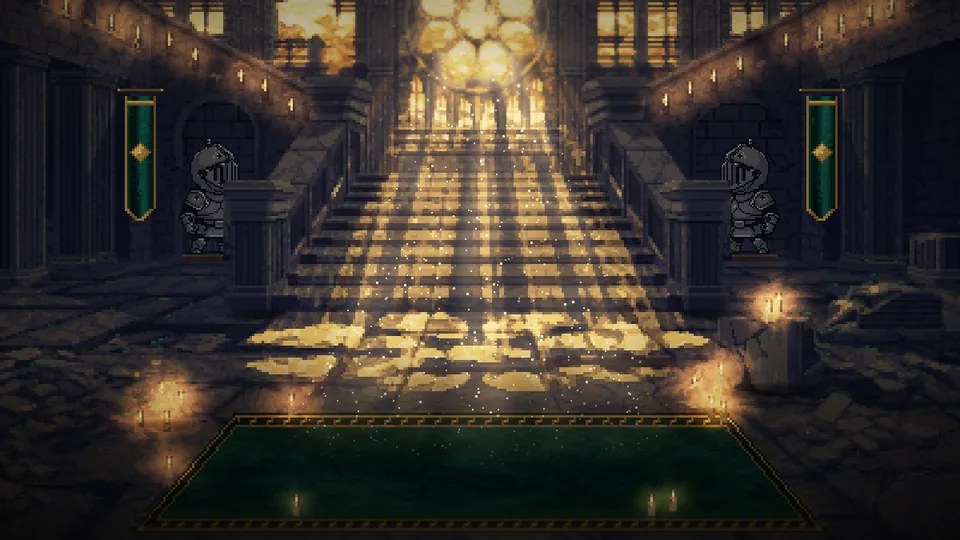
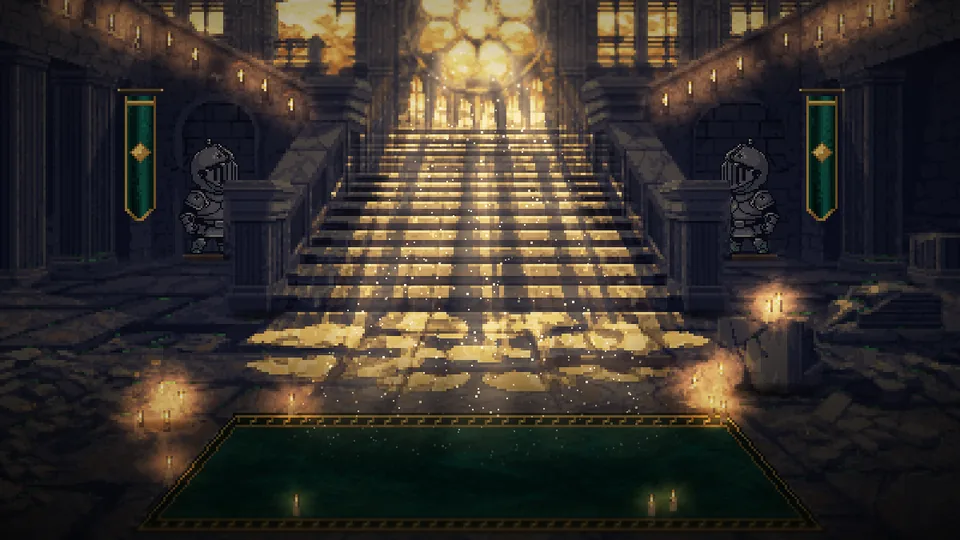
Salão dos Cem: Escadaria da Ascensão com a arte HD-2D (escadaria do Tales relida em luz dourada)
Claude-Session: https://claude.ai/code/session_01GbKgzzZKzHQDKNkw1eCv9w

diff --git a/src/estilos/paginas/SalaoCem.css b/src/estilos/paginas/SalaoCem.css
@@ -209,26 +209,21 @@
 .cem-escada__cabeca { display: grid; gap: 2px; }
 .cem-escada__cabeca h2, .cem-lista__cabeca h2, .cem-regras h2 { margin: 0; font-family: var(--fonte-marca); font-weight: 800; letter-spacing: -0.02em; font-size: clamp(1.375rem, 2.6vw, 1.75rem); color: var(--texto); }
 .cem-escada__sub { margin: 0; color: var(--texto-2); font-size: var(--corpo-menor); }
+.cem-escada__palco { position: relative; border-radius: 20px; overflow: hidden; background: #191a1f; min-height: 22rem; aspect-ratio: 1200 / 472; }
+/* A arte mostra a faixa de 8% a 78% da altura: o vitral, a escada e o tapete onde ficam os cartões. */
+.cem-escada__arte { position: absolute; inset: 0; width: 100%; height: 100%; object-fit: cover; object-position: 50% 12%; image-rendering: pixelated; }
 .cem-escada__degraus {
-  list-style: none; margin: 0; padding: var(--e-6) var(--e-5) 0; display: grid; grid-template-columns: repeat(3, minmax(0, 1fr)); gap: var(--e-4); align-items: end;
-  border-radius: 16px; position: relative; overflow: hidden;
-  background: linear-gradient(180deg, #efe7d6, #e4d8bf);
+  list-style: none; margin: 0; position: absolute; inset: auto 0 0; padding: 0 var(--e-5) var(--e-5);
+  display: grid; grid-template-columns: repeat(3, minmax(0, 1fr)); gap: var(--e-4); align-items: end;
 }
-/* Os degraus de pedra embaixo de cada cartão: cada um mais alto que o anterior (a escada sobe para a direita). */
+/* Cada patamar um pouco mais alto que o anterior: a escada sobe para a direita. */
 .cem-degrau {
-  --alto: 0px; position: relative; display: grid; gap: var(--e-2); min-width: 0; margin-bottom: calc(18px + var(--alto));
-  padding: var(--e-4); border-radius: 12px; background: #fffdf8; box-shadow: 0 1px 2px rgba(60, 44, 20, 0.12), 0 8px 18px rgba(60, 44, 20, 0.12);
+  --alto: 0px; position: relative; display: grid; gap: var(--e-2); min-width: 0; margin-bottom: var(--alto);
+  padding: var(--e-4); border-radius: 12px; background: rgba(255, 253, 248, 0.96);
+  box-shadow: 0 1px 2px rgba(0, 0, 0, 0.25), 0 12px 28px rgba(0, 0, 0, 0.35);
 }
-.cem-degrau::after {
-  content: ""; position: absolute; left: -10px; right: -10px; top: 100%; height: calc(18px + var(--alto) + var(--e-6)); margin-top: 8px;
-  background:
-    linear-gradient(180deg, #b7a586 0 4px, #9d8a6a 4px 6px, transparent 6px) top / 100% 100% no-repeat,
-    repeating-linear-gradient(90deg, transparent 0 46px, rgba(70, 52, 30, 0.22) 46px 48px),
-    linear-gradient(180deg, #cdbd9c, #b9a681);
-  border-radius: 3px 3px 0 0;
-}
-.cem-degrau--2 { --alto: 28px; }
-.cem-degrau--3 { --alto: 56px; }
+.cem-degrau--2 { --alto: 14px; }
+.cem-degrau--3 { --alto: 28px; }
 .cem-degrau--voce { box-shadow: inset 0 0 0 2px var(--verdete), 0 8px 18px rgba(60, 44, 20, 0.12); }
 .cem-degrau__salto { display: flex; align-items: baseline; gap: var(--e-2); }
 .cem-degrau__salto b { font-family: var(--fonte-pixel); font-weight: 400; font-size: 2.25rem; line-height: 0.9; color: var(--acerto-texto, #1f7a4d); }
@@ -352,9 +347,10 @@
   .cem-podio__total { grid-column: 3; grid-row: 1 / span 2; text-align: right; display: grid; }
   .cem-podio__total b, .cem-podio--1 .cem-podio__total b { font-size: 1.375rem; }
   .cem-podio__selos { grid-column: 2; min-height: 0; }
-  .cem-escada__degraus { grid-template-columns: minmax(0, 1fr); padding: var(--e-3); gap: var(--e-2); background: #efe7d6; }
+  .cem-escada__palco { aspect-ratio: auto; min-height: 0; display: grid; }
+  .cem-escada__arte { position: relative; height: 11rem; object-position: 50% 30%; }
+  .cem-escada__degraus { position: relative; grid-template-columns: minmax(0, 1fr); padding: var(--e-3); gap: var(--e-2); margin-top: -2.5rem; }
   .cem-degrau, .cem-degrau--2, .cem-degrau--3 { --alto: 0px; margin: 0; }
-  .cem-degrau::after { display: none; }
   .cem-degrau { grid-template-columns: auto minmax(0, 1fr); align-items: center; column-gap: var(--e-3); padding: var(--e-3); }
   .cem-degrau__salto { display: grid; justify-items: center; gap: 0; min-width: 3.25rem; }
   .cem-degrau__salto b { font-size: 1.9rem; }
@@ -387,10 +383,8 @@
 /* ---------- Escuro ---------- */
 :root[data-tema="escuro"] .cem { --cem-veu-eu: rgba(79, 179, 165, 0.16); }
 :root[data-tema="escuro"] .cem-jornada { background-color: #0a2e28; box-shadow: inset 0 0 0 1px rgba(228, 184, 92, 0.2); }
-:root[data-tema="escuro"] .cem-escada__degraus { background: linear-gradient(180deg, #2a2620, #221e19); }
-:root[data-tema="escuro"] .cem-degrau { background: #1c2124; box-shadow: inset 0 0 0 1px #2f383b; }
+:root[data-tema="escuro"] .cem-degrau { background: rgba(28, 33, 36, 0.95); box-shadow: inset 0 0 0 1px #2f383b, 0 12px 28px rgba(0, 0, 0, 0.4); }
 :root[data-tema="escuro"] .cem-degrau__nome, :root[data-tema="escuro"] .cem-degrau__rota b { color: #f1f3f2; }
 :root[data-tema="escuro"] .cem-degrau__rota { color: #a9b6b9; }
-:root[data-tema="escuro"] .cem-degrau::after { filter: brightness(0.45) saturate(0.7); }
 :root[data-tema="escuro"] .cem-mov--fogo { background: #3a2a14; color: #ffc46b; }
 :root[data-tema="escuro"] .cem-linha--voce { box-shadow: inset 4px 0 0 var(--cem-ouro); }

diff --git a/src/componentes/cem/Escadaria.tsx b/src/componentes/cem/Escadaria.tsx
@@ -1,3 +1,4 @@
+import { recurso } from '../../config'
 import { iniciais, type Ascensao } from './regras'
 import { Chama } from './Movimento'
 
@@ -14,6 +15,10 @@ export function Escadaria({ subidas }: { subidas: Ascensao[] }) {
       <h2 id="cem-escada-t">Quem mais subiu</h2>
       <p className="cem-escada__sub">Posições ganhas desde o último dia registrado ou na semana.</p>
     </header>
+    <div className="cem-escada__palco">
+    {/* A escadaria do castelo (desenho do Tales no PixelLab, com a luz HD-2D de scripts/cenarios/escadaria_cem.py). */}
+    <img className="cem-escada__arte" src={recurso('ranking/cem/escadaria-960.webp')} srcSet={`${recurso('ranking/cem/escadaria-960.webp')} 960w, ${recurso('ranking/cem/escadaria.webp')} 1200w`}
+      sizes="min(72rem, 100vw)" alt="" width={1200} height={675} loading="lazy" decoding="async" draggable={false} aria-hidden="true" />
     <ol className="cem-escada__degraus">
       {subidas.map((s, i) => <li key={s.linha.posicao} className={`cem-degrau cem-degrau--${i + 1}${s.linha.eh_voce ? ' cem-degrau--voce' : ''}`}>
         <span className="cem-degrau__salto">
@@ -30,5 +35,6 @@ export function Escadaria({ subidas }: { subidas: Ascensao[] }) {
         {s.fogo && <span className="cem-degrau__fogo" title="Em chamas"><Chama tamanho={24} /><span className="so-leitor">Em chamas</span></span>}
       </li>)}
     </ol>
+    </div>
   </section>
 }

diff --git a/scripts/cenarios/escadaria_cem.py b/scripts/cenarios/escadaria_cem.py
@@ -161,6 +161,16 @@ def quantizar(s: np.ndarray, d: dict) -> np.ndarray:
     faixa = np.digitize(luz, [0.05, 0.13, 0.24])
     # faixas de luz sem pontinhos soltos: filtro de moda 3 x 3 (a textura fica no tom, não na luz)
     faixa = np.asarray(Image.fromarray(faixa.astype(np.uint8)).filter(ImageFilter.ModeFilter(3))).astype(int)
+    # degraus legíveis: a janela fica atrás e acima, então o piso de cada degrau recebe a luz e o espelho (a face
+    # virada para nós) fica na sombra; a quina de cada piso ganha um filete claro
+    escada = poli([(152, 46), (248, 46), (282, 130), (118, 130)])
+    linha = np.array([tom[y, 150:250].mean() for y in range(H)])
+    espelho = (linha < 0.16)[:, None] & escada
+    quina = ((linha >= 0.16) & (np.roll(linha, 1) < 0.16))[:, None] & escada
+    faixa = np.where(espelho, np.minimum(faixa, 1), faixa)
+    idx = np.where(espelho, np.maximum(idx - 1, 0), idx)
+    idx = np.where(quina, np.minimum(idx + 1, 9), idx)
+    faixa = np.where(quina & (faixa >= 1), np.minimum(faixa + 1, 3), faixa)
     # a luz direta também clareia o material um degrau
     idx = np.clip(idx + (faixa >= 2) + (faixa >= 3), 0, 9)
     for f in range(4):
@@ -521,7 +531,7 @@ def montar(arte: np.ndarray, d: dict) -> Image.Image:
     # a luz assada (as manchas da rosácea na escada) ganha um brilho quente a mais
     img += (luz_assada * (1 - jan))[:, :, None] * img * 0.12 * (1 - suave(140, 200, GYa))[:, :, None]
     # a poça de luz no chão da frente desce um pouco (os cartões ficam por cima)
-    img *= (1 - luz_assada * suave(132, 165, GYa) * 0.22)[:, :, None]
+    img *= (1 - luz_assada * suave(125, 165, GYa) * 0.32)[:, :, None]
     # poeira dourada no facho
     g = np.random.default_rng(83)
     pp = f * 2.2 + raios * 1.2
@@ -589,11 +599,14 @@ def main() -> None:
     img.resize((960, 540), Image.LANCZOS).save(PASTA / "escadaria-960.webp", quality=82, method=6)
     meta = {
         "base": [W, H], "escala": ESC,
-        "recorte_desktop": {"y0": 0.14, "y1": 0.86},
-        "foco": {"x": 0.5, "y": 0.34},
+        "recorte_desktop": {"y0": 0.08, "y1": 0.78},
+        "foco": {"x": 0.5, "y": 0.3},
         "notas": "Escadaria da Ascensão (Salão dos Cem). Base do Tales (PixelLab) refeita em pixel art 400x225 e luz "
-                 "HD-2D em 3x por scripts/cenarios/escadaria_cem.py. Cartões claros sobre o chão da frente "
-                 "(faixa de baixo calma e mais escura); escada e rosácea no centro.",
+                 "HD-2D em 3x por scripts/cenarios/escadaria_cem.py. Recorte sugerido (0,08 a 0,78, cerca de 2,5:1) "
+                 "mostra as lancetas e a base da rosácea no alto, a escada no centro e a poça de luz do chão atrás "
+                 "dos cartões; 0,20 a 0,90 também funciona (corta a janela e põe os cartões sobre o tapete, a parte "
+                 "mais calma). Celular: os 60% do meio (x 0,2 a 0,8) mantêm a escada e os dois cavaleiros na borda. "
+                 "Cavaleiros de pedra nos nichos em x 0,22 e 0,78; estandartes em x 0,15 e 0,85.",
     }
     (PASTA / "escadaria.json").write_text(json.dumps(meta, ensure_ascii=False, indent=2) + "\n")
     for n in ("escadaria.webp", "escadaria-960.webp"):
